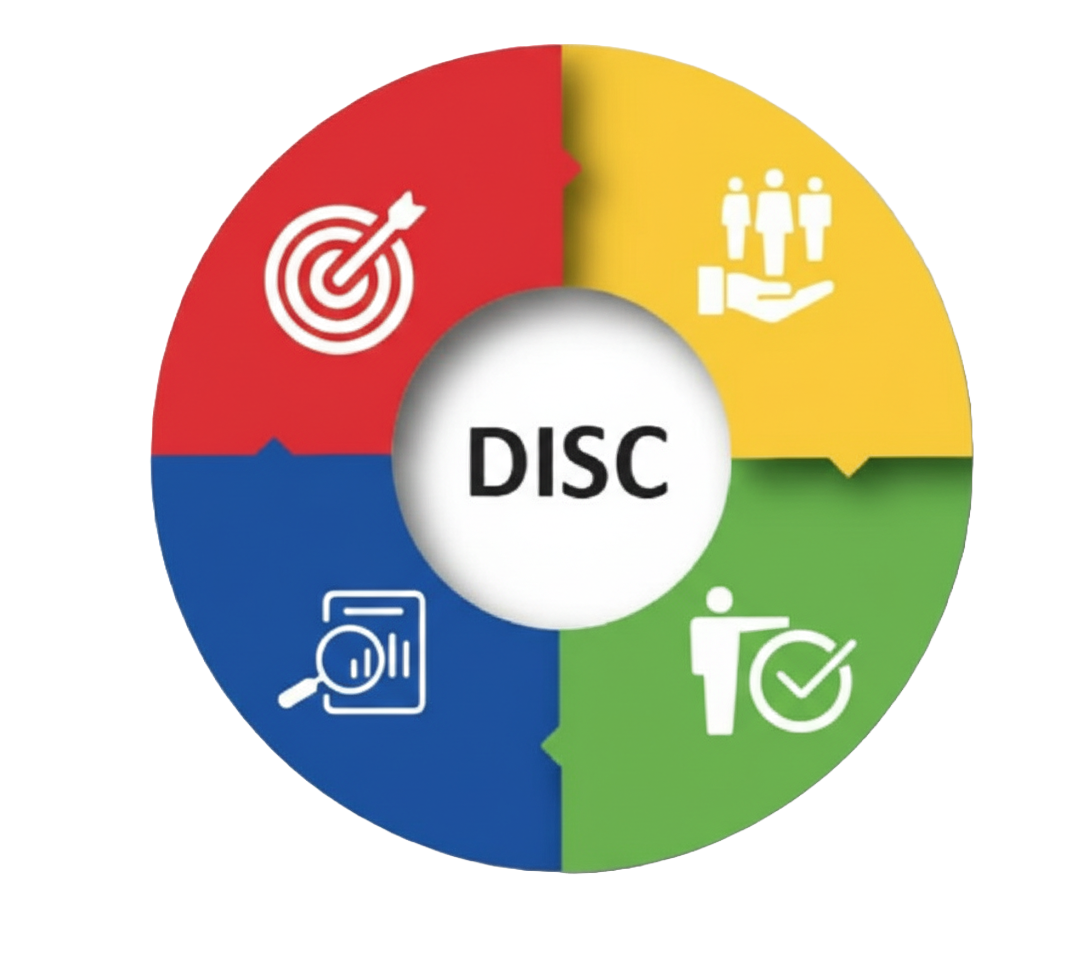
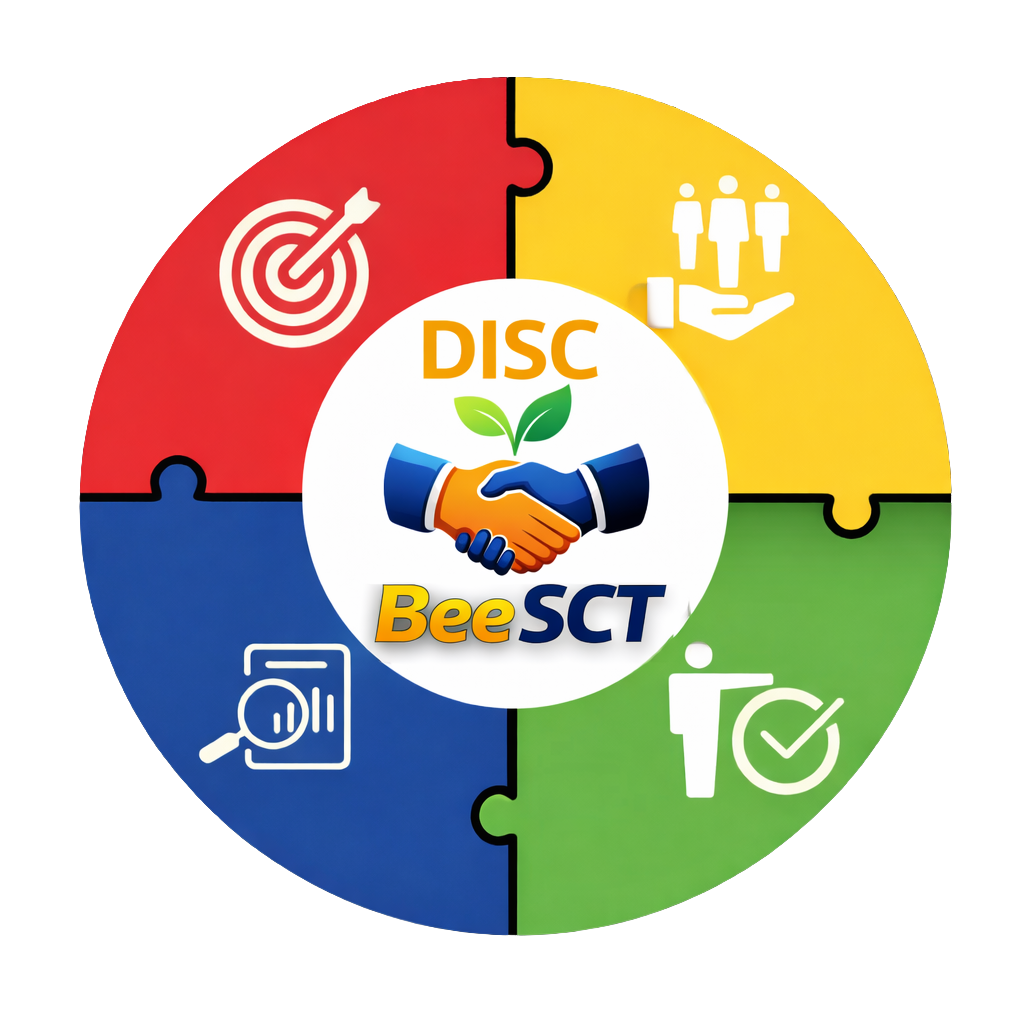
Add files via upload

Changed region(s): [[0.0625, 0.0312, 0.9375, 0.9375]]

diff --git a/README.md b/README.md
@@ -1,0 +1,33 @@
+# BeeSCT DISC Test
+
+## Giới thiệu
+BeeSCT DISC là ứng dụng trắc nghiệm tính cách & định hướng nghề nghiệp, được thiết kế offline-first (PWA) giúp người dùng khám phá xu hướng hành vi, điểm mạnh và môi trường phù hợp của bản thân.
+
+## Tính năng chính
+- **Trắc nghiệm DISC:** Lựa chọn phiên bản 12 câu (nhanh) hoặc 28 câu (chi tiết).
+- **Phân tích chuyên sâu:**
+  - Biểu đồ Phong cách Thích ứng (Adapted) & Tự nhiên (Natural).
+  - Biểu đồ tròn phân bổ năng lượng D-I-S-C.
+  - Biểu đồ Mô hình Hành vi (BPV) với tính năng kéo thả định vị.
+- **Báo cáo chi tiết:**
+  - Nhận diện kiểu tính cách chủ đạo.
+  - Lời khuyên giao tiếp, động lực và nhu cầu.
+  - Gợi ý môi trường làm việc lý tưởng.
+  - Đánh giá lợi ích mang lại cho tổ chức.
+- **Lưu trữ & Lịch sử:** Tự động lưu kết quả, xem lại lịch sử kiểm tra.
+- **PWA (Progressive Web App):** Cài đặt và chạy mượt mà trên điện thoại như ứng dụng native.
+
+## Cài đặt trên điện thoại
+### iOS (Safari)
+1. Truy cập link ứng dụng.
+2. Bấm nút **Chia sẻ** (Share).
+3. Chọn **Thêm vào MH chính** (Add to Home Screen).
+
+### Android (Chrome)
+1. Truy cập link ứng dụng.
+2. Bấm menu **3 chấm**.
+3. Chọn **Cài đặt ứng dụng** (Install App).
+
+## Phát triển
+- Phiên bản: 1.2@2026
+- Phát triển bởi: NTKIEN
